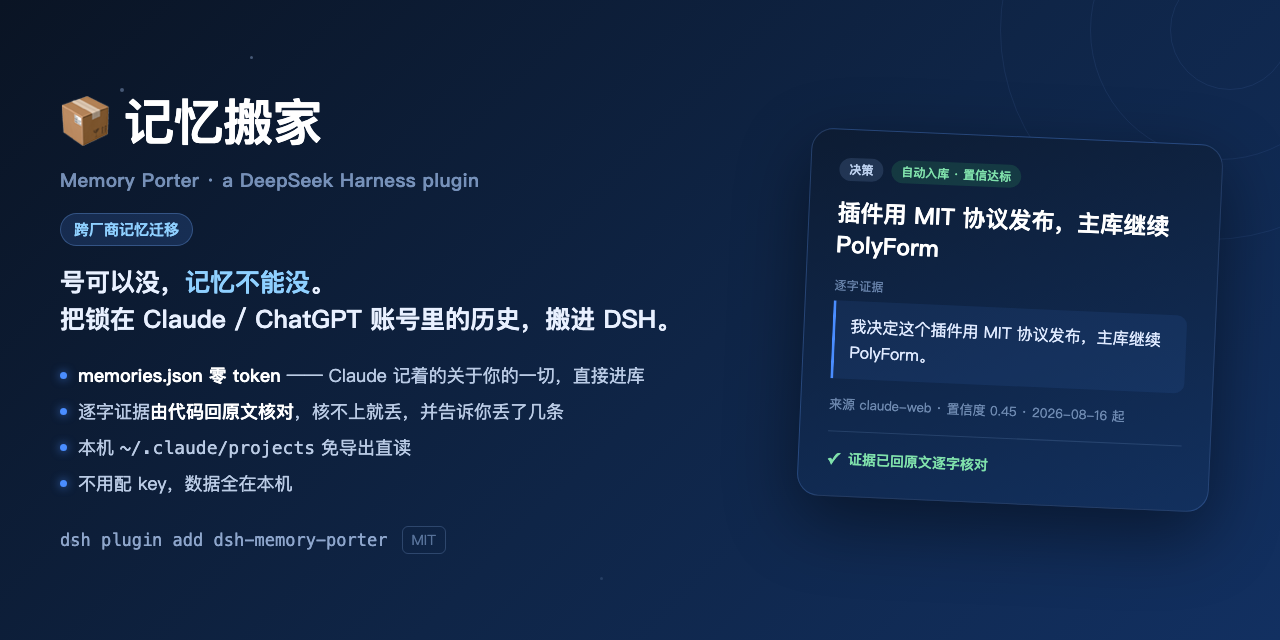
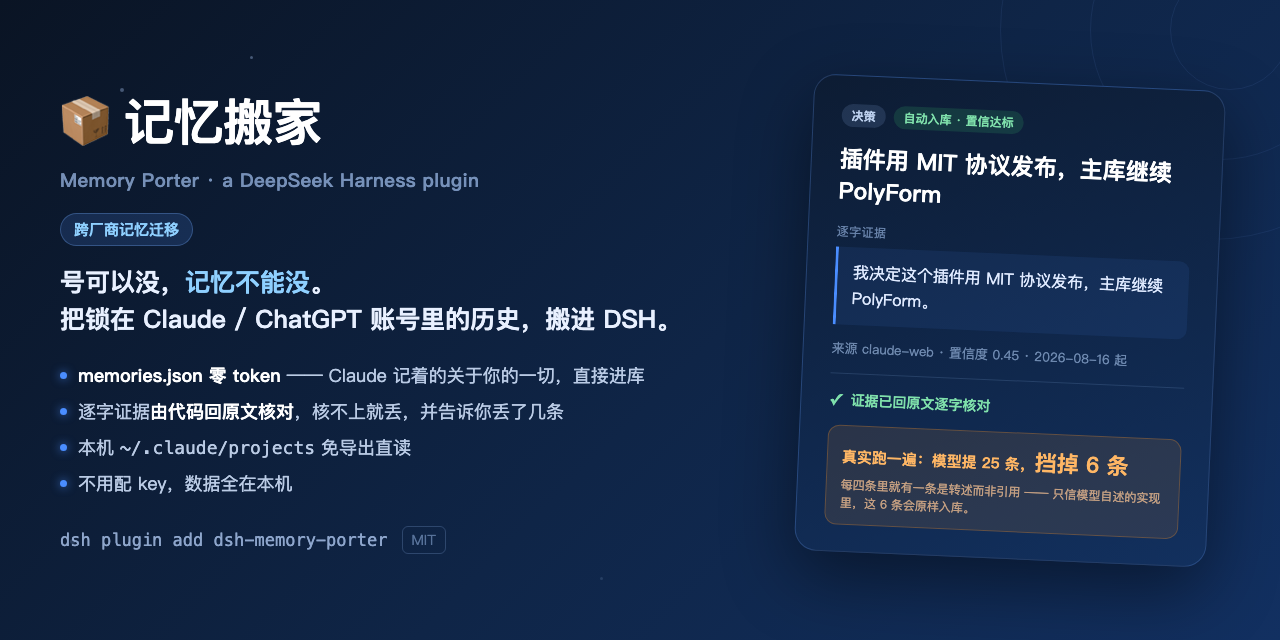
assets: social preview 加上实测数字「模型提 25 条，挡掉 6 条」
原来的图讲的是承诺（「逐字证据由代码核对」），H1 真实跑完之后有了可验证的
数字，把它印在卡片上——抽象承诺变成证据。配一句「每四条里就有一条是转述
而非引用」，把生态里那些只信模型自述的实现的软肋点明。

Changed region(s): [[0.625, 0.1562, 0.9375, 0.5625], [0.625, 0.5938, 0.9375, 0.8438]]

diff --git a/assets/social-preview.html b/assets/social-preview.html
@@ -60,11 +60,17 @@
   .ev { border-left:3px solid #4a8dff; border-radius:0 10px 10px 0;
         background:rgba(74,141,255,.09); padding:13px 15px;
         font-size:16px; line-height:1.6; color:#dfeaff; }
-  .meta { margin-top:16px; font-size:13px; color:rgba(160,188,228,.66);
+  .meta { margin-top:14px; font-size:13px; color:rgba(160,188,228,.66);
           font-variant-numeric:tabular-nums; }
-  .verify { margin-top:18px; padding-top:16px; border-top:1px solid rgba(140,175,230,.18);
+  .verify { margin-top:16px; padding-top:15px; border-top:1px solid rgba(140,175,230,.18);
             display:flex; align-items:center; gap:9px; font-size:14px; color:#7fe0ab; font-weight:600; }
   .verify .ok { font-size:16px; }
+  /* 实测数字：抽象承诺变成可验证的证据，这是整张图最该被记住的地方。 */
+  .proof { margin-top:14px; padding:12px 14px; border-radius:12px;
+           background:rgba(232,138,42,.12); border:1px solid rgba(232,138,42,.3); }
+  .proof .n { font-size:15px; font-weight:800; color:#ffb765; line-height:1.5; }
+  .proof .n b { font-size:22px; }
+  .proof .s { margin-top:5px; font-size:12px; color:rgba(255,200,150,.72); line-height:1.5; }
 </style>
 </head>
 <body>
@@ -110,6 +116,10 @@
     <div class="ev">我决定这个插件用 MIT 协议发布，主库继续 PolyForm。</div>
     <div class="meta">来源 claude-web · 置信度 0.45 · 2026-08-16 起</div>
     <div class="verify"><span class="ok">✓</span><span>证据已回原文逐字核对</span></div>
+    <div class="proof">
+      <div class="n">真实跑一遍：模型提 25 条，<b>挡掉 6 条</b></div>
+      <div class="s">每四条里就有一条是转述而非引用 —— 只信模型自述的实现里，这 6 条会原样入库。</div>
+    </div>
   </div>
 </div>
 </body>
